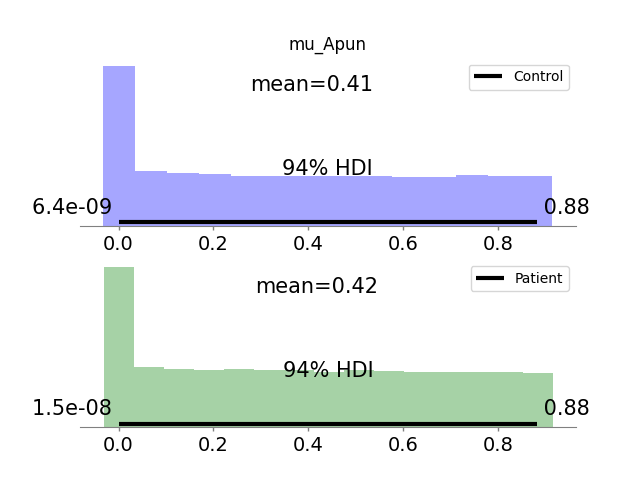
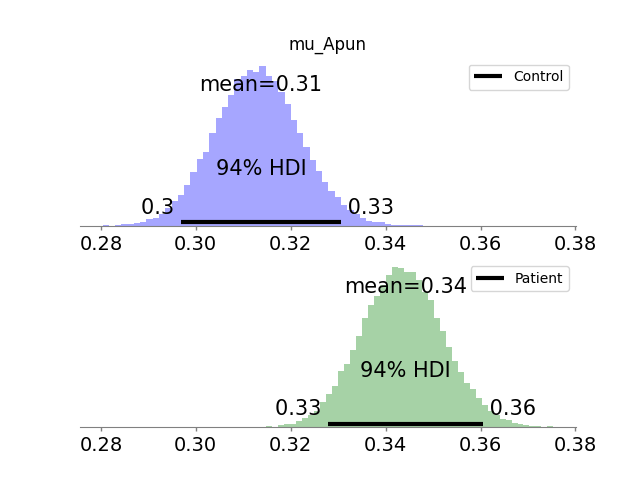
new results

diff --git a/compare_hdi.py b/compare_hdi.py
@@ -9,7 +9,7 @@ from hbayesdm import rhat, print_fit, plot_hdi, hdi
 import arviz as az
 from matplotlib import pyplot as plt
 
-def comp_hdi(model_name, param_ls, sort=False, draws=1000, seed=123):
+def comp_hdi(model_name, param_ls, sort=True, draw_idx=50, draws=1000, seed=123):
     """
     compare hdi by drawing simulations
     """
@@ -24,8 +24,8 @@ def comp_hdi(model_name, param_ls, sort=False, draws=1000, seed=123):
         # random compare n draws
         for comp in range(1,draws):
             # load MCMC traces with matching seeds (not number of subjects)
-            hc_file = os.path.join(output_dir, 'hc_sim_'+str(int(np.random.randint(1,50,1)))+'.pkl')
-            pt_file = os.path.join(output_dir, 'pt_sim_'+str(int(np.random.randint(1,50,1)))+'.pkl')
+            hc_file = os.path.join(output_dir, 'hc_sim_'+str(int(np.random.randint(0,draw_idx,1)))+'.pkl')
+            pt_file = os.path.join(output_dir, 'pt_sim_'+str(int(np.random.randint(0,draw_idx,1)))+'.pkl')
 
             if os.path.isfile(hc_file) and os.path.isfile(pt_file):
                 # print(hc_file, pt_file)
@@ -168,4 +168,4 @@ if __name__ == "__main__":
         param_ls = ['mu_sigma_a', 'mu_sigma_n', 'mu_eta', 'mu_kappa', 'mu_beta', 'mu_bias']
     else:
         print('model must be bandit or generalise.')
-    comp_hdi(model_name, param_ls, sort=True, draws=1000)
+    comp_hdi(model_name, param_ls, sort=True, draw_idx=14, draws=200)
